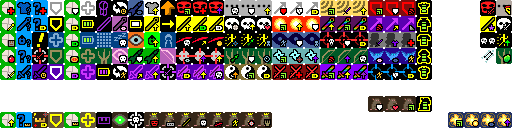
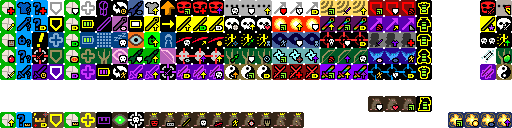
Added placeholders for additional talents

Changed region(s): [[0.9375, 0.5, 1.0, 0.625], [0.5312, 0.875, 0.5938, 1.0]]

diff --git a/core/src/main/java/com/zrp200/rkpd2/actors/hero/Talent.java b/core/src/main/java/com/zrp200/rkpd2/actors/hero/Talent.java
@@ -172,9 +172,9 @@ public enum Talent {
 	//Duelist T3
 	LIGHTWEIGHT_CHARGE(137, 3), DEADLY_FOLLOWUP(138, 3),
 	//Champion T3
-	SECONDARY_CHARGE(139, 3), TWIN_UPGRADES(140, 3), COMBINED_LETHALITY(141, 3),
+	SECONDARY_CHARGE(139, 3), TWIN_UPGRADES(140, 3), COMBINED_LETHALITY(141, 3), ELITE_DEXTERITY(158, 3),
 	//Monk T3
-	UNENCUMBERED_SPIRIT(142, 3), MONASTIC_VIGOR(143, 3), COMBINED_ENERGY(144, 3),
+	UNENCUMBERED_SPIRIT(142, 3), MONASTIC_VIGOR(143, 3), COMBINED_ENERGY(144, 3), PLACEHOLDER(159),
 	//Challenge T4
 	CLOSE_THE_GAP(145, 4), INVIGORATING_VICTORY(146, 4), ELIMINATION_MATCH(147, 4),
 	//Elemental Strike T4
@@ -229,6 +229,8 @@ public enum Talent {
 	// Rat King T3
 	RK_BERSERKER(233,3), RK_GLADIATOR(234,3), RK_BATTLEMAGE(235,3),
 	RK_WARLOCK(236,3), RK_ASSASSIN(237,3), RK_FREERUNNER(238,3), RK_SNIPER(239,3), RK_WARDEN(240,3),
+	// placeholders for if/when duelist is implemented into rk
+	RK_CHAMPION(241,3), RK_MONK(242,3),
 	// Wrath2
 	AFTERSHOCK(220,4), RAT_BLAST(221,4), SMOKE_AND_MIRRORS(222,4), SEA_OF_BLADES(223,4);
 
